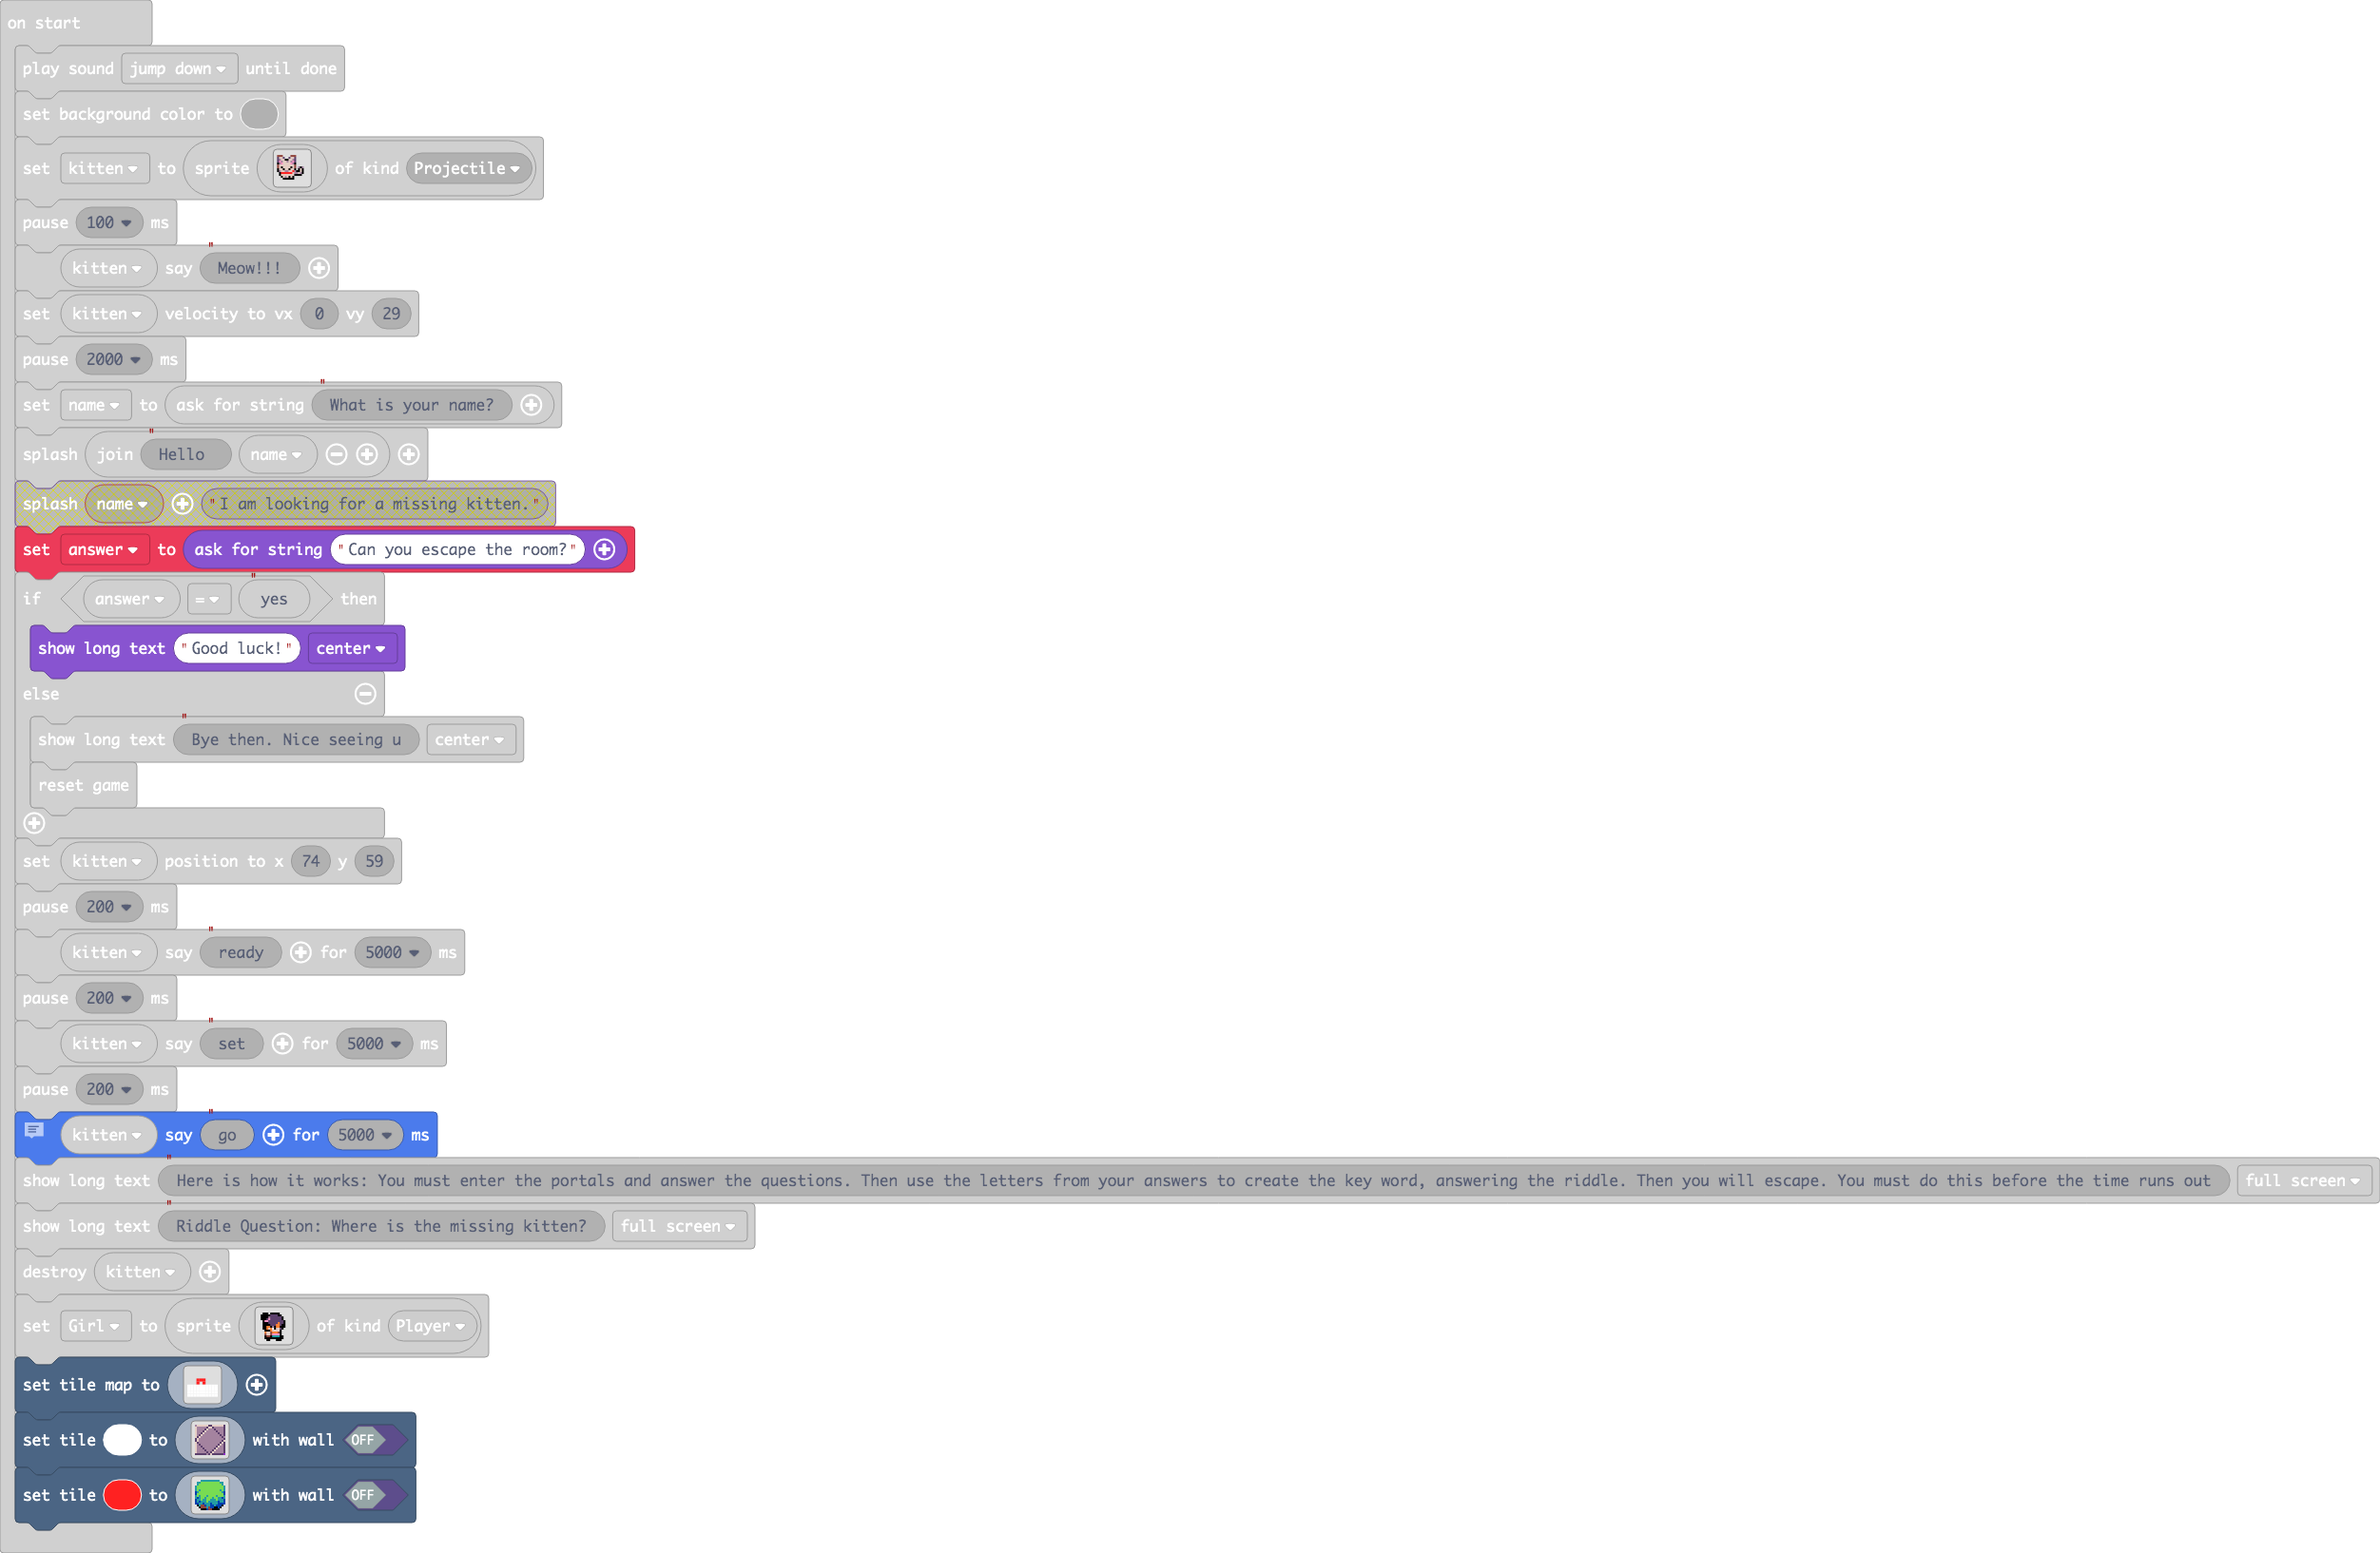
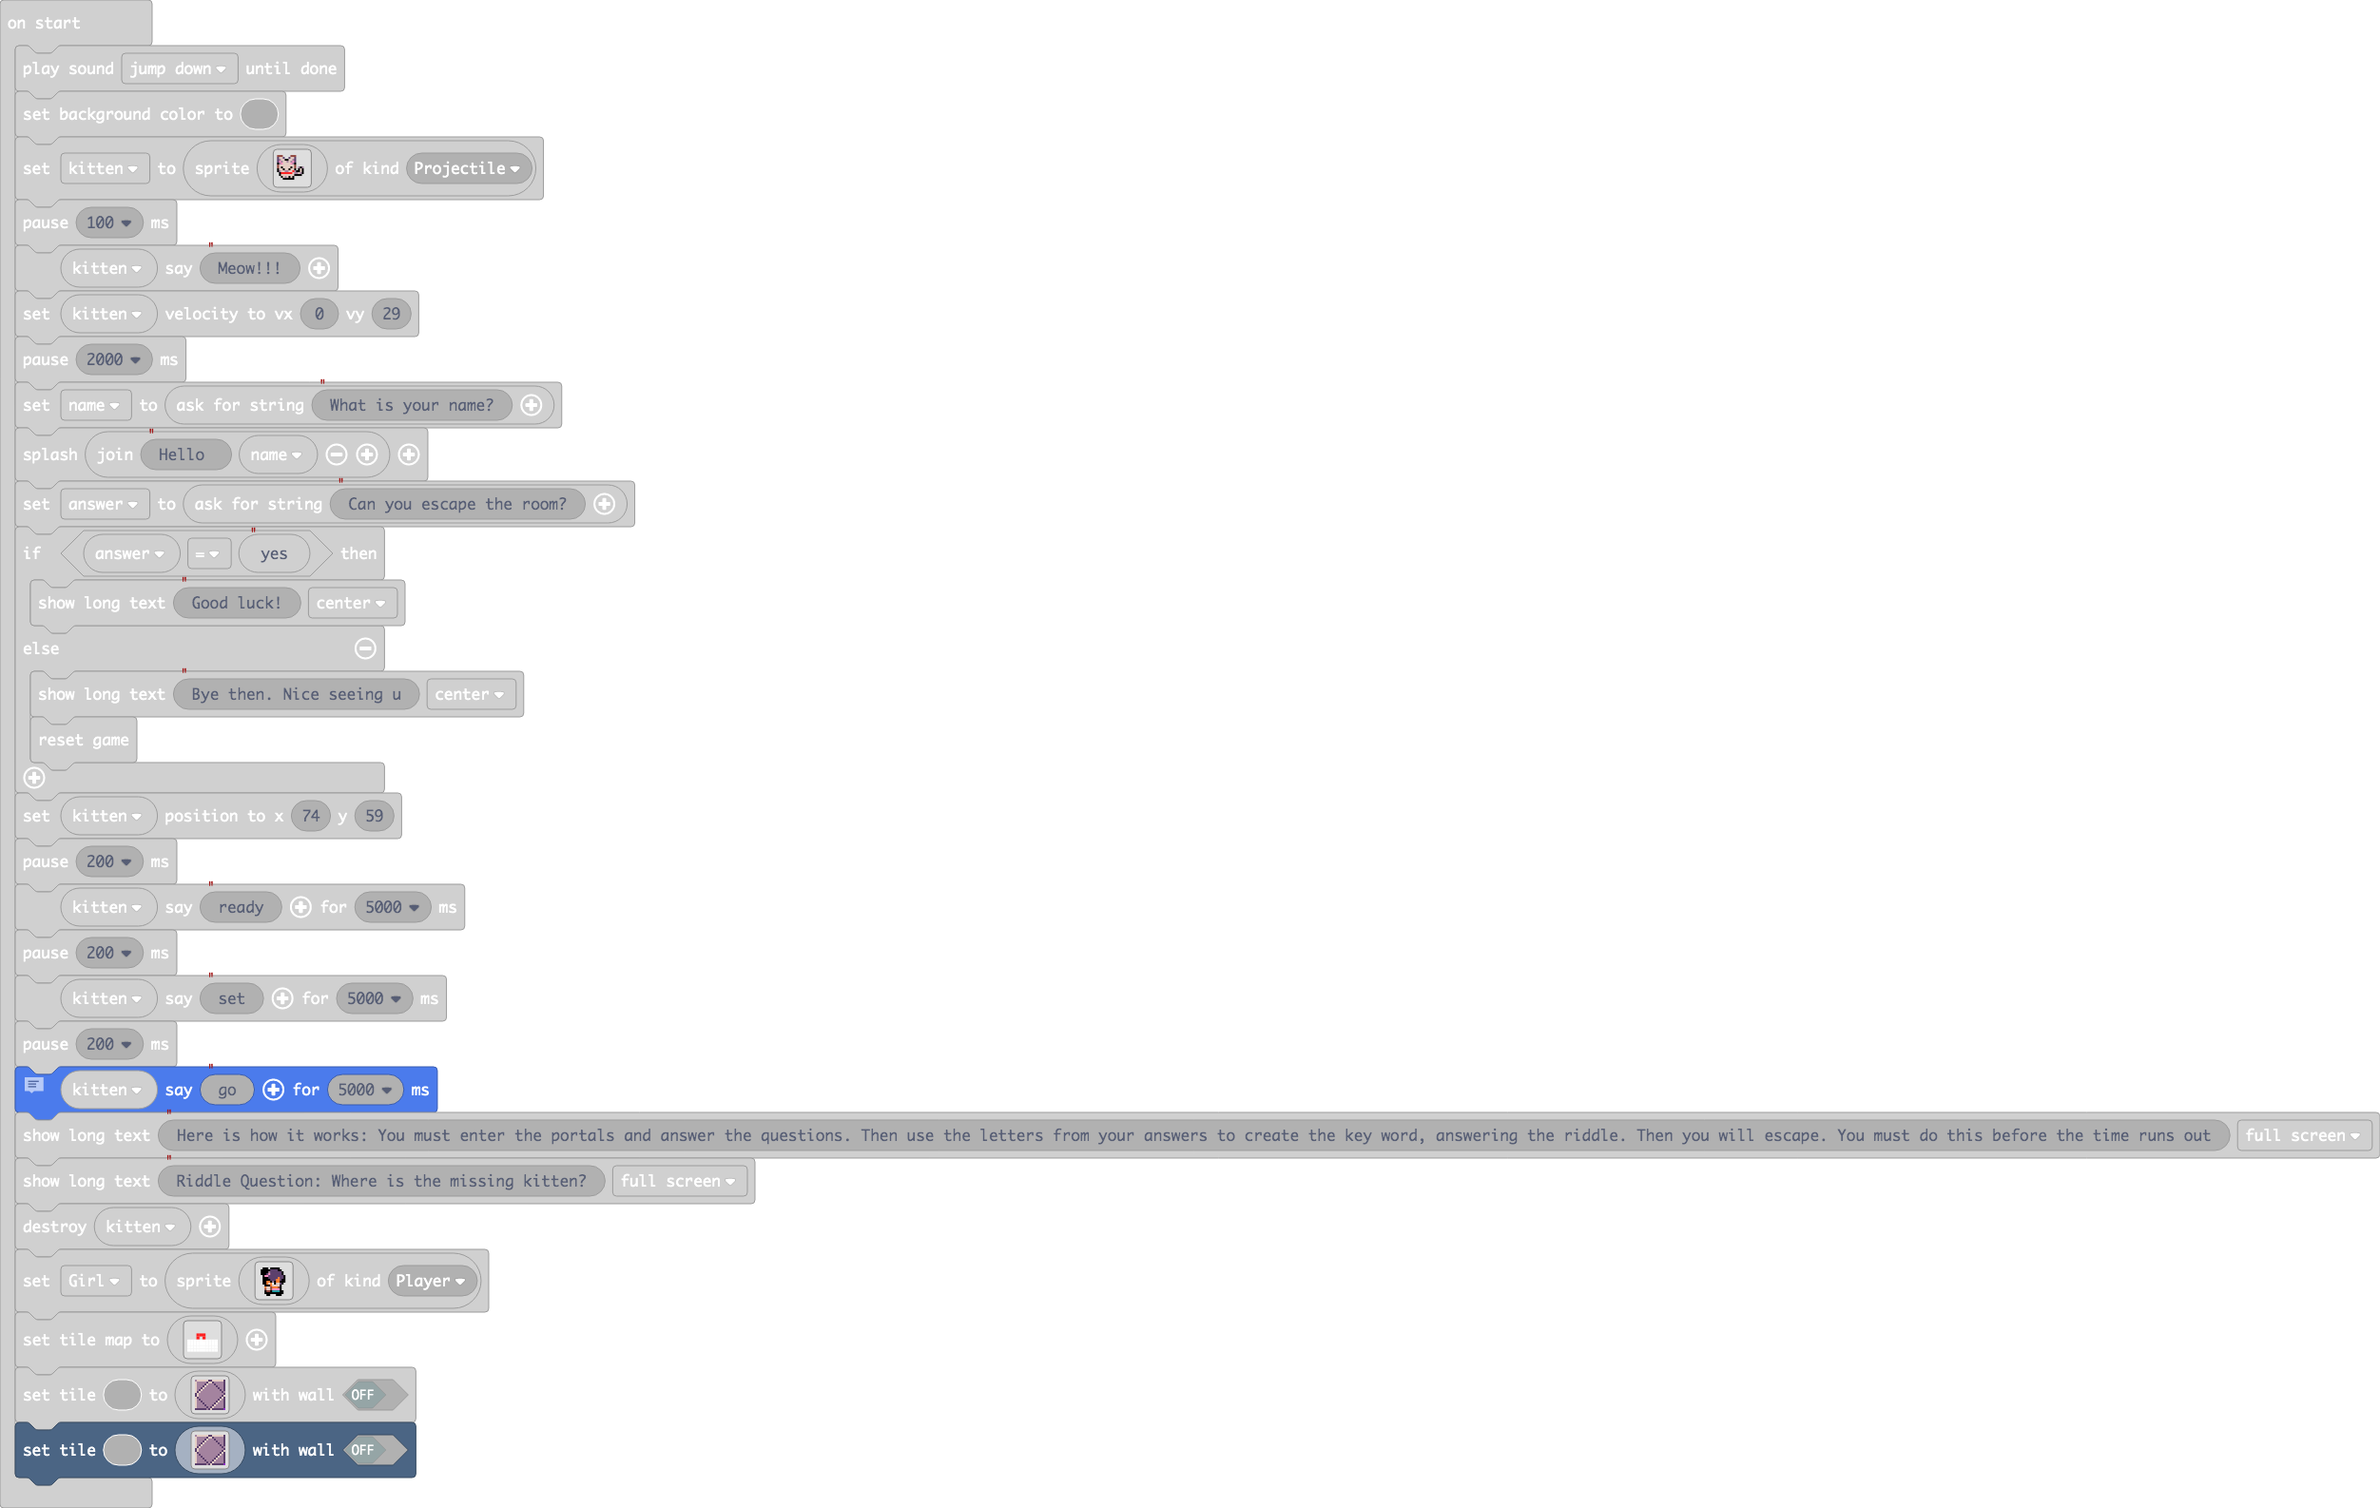
Update main.blocks, main.ts

Changed region(s): [[0.0, 0.0309, 1.0, 0.9887]]

diff --git a/main.ts b/main.ts
@@ -96,20 +96,20 @@ d b b b b b c b c d b b b b b c
 c c c c c c b c d c c c c c c a 
 `, false)
 scene.setTile(2, img`
-. . . 6 6 6 6 6 6 6 6 6 6 . . . 
-. 6 6 7 7 7 7 7 7 7 7 7 7 6 6 . 
-. 6 7 7 7 7 7 7 7 7 7 7 7 7 6 . 
-6 7 7 7 7 7 7 7 7 7 7 7 7 7 7 6 
-6 7 7 7 7 7 7 7 7 7 7 7 7 7 7 6 
-6 7 6 7 7 7 7 7 7 7 7 7 7 6 7 6 
-8 6 7 7 7 7 7 7 7 7 7 7 7 7 6 8 
-8 7 7 7 7 7 7 7 7 7 7 7 7 7 7 8 
-6 7 6 7 7 7 6 7 7 7 7 6 7 7 7 6 
-6 8 6 7 7 6 7 7 7 6 7 7 6 6 8 6 
-8 6 6 7 6 6 7 7 6 6 6 7 6 6 6 8 
-8 6 8 6 6 6 7 6 6 6 6 6 8 6 6 8 
-8 8 6 6 8 6 6 6 8 6 6 6 8 8 8 8 
-. f 6 e e 8 6 6 8 8 6 8 8 8 f . 
-. . f e e e 6 e 8 8 f f 8 f . . 
-. . . f f f 8 e e f f f f . . . 
+b d d d d d d c c d d d d d d c 
+d b b b b b c d d c b b b b b c 
+d b b b b c d b b b c b b b b c 
+d b b b c d b b b b b c b b b c 
+d b b c d b b b b b b b c b b c 
+d b c d b b b b b b b b b c b c 
+d c d b b b b b b b b b b b c b 
+c d b b b b b b b b b b b b b c 
+c d b b b b b b b b b b b b c d 
+d c b b b b b b b b b b b c d c 
+d b c b b b b b b b b b c d b c 
+d b b c b b b b b b b c d b b c 
+d b b b c b b b b b c d b b b c 
+d b b b b c b b b c d b b b b c 
+d b b b b b c b c d b b b b b c 
+c c c c c c b c d c c c c c c a 
 `, false)
